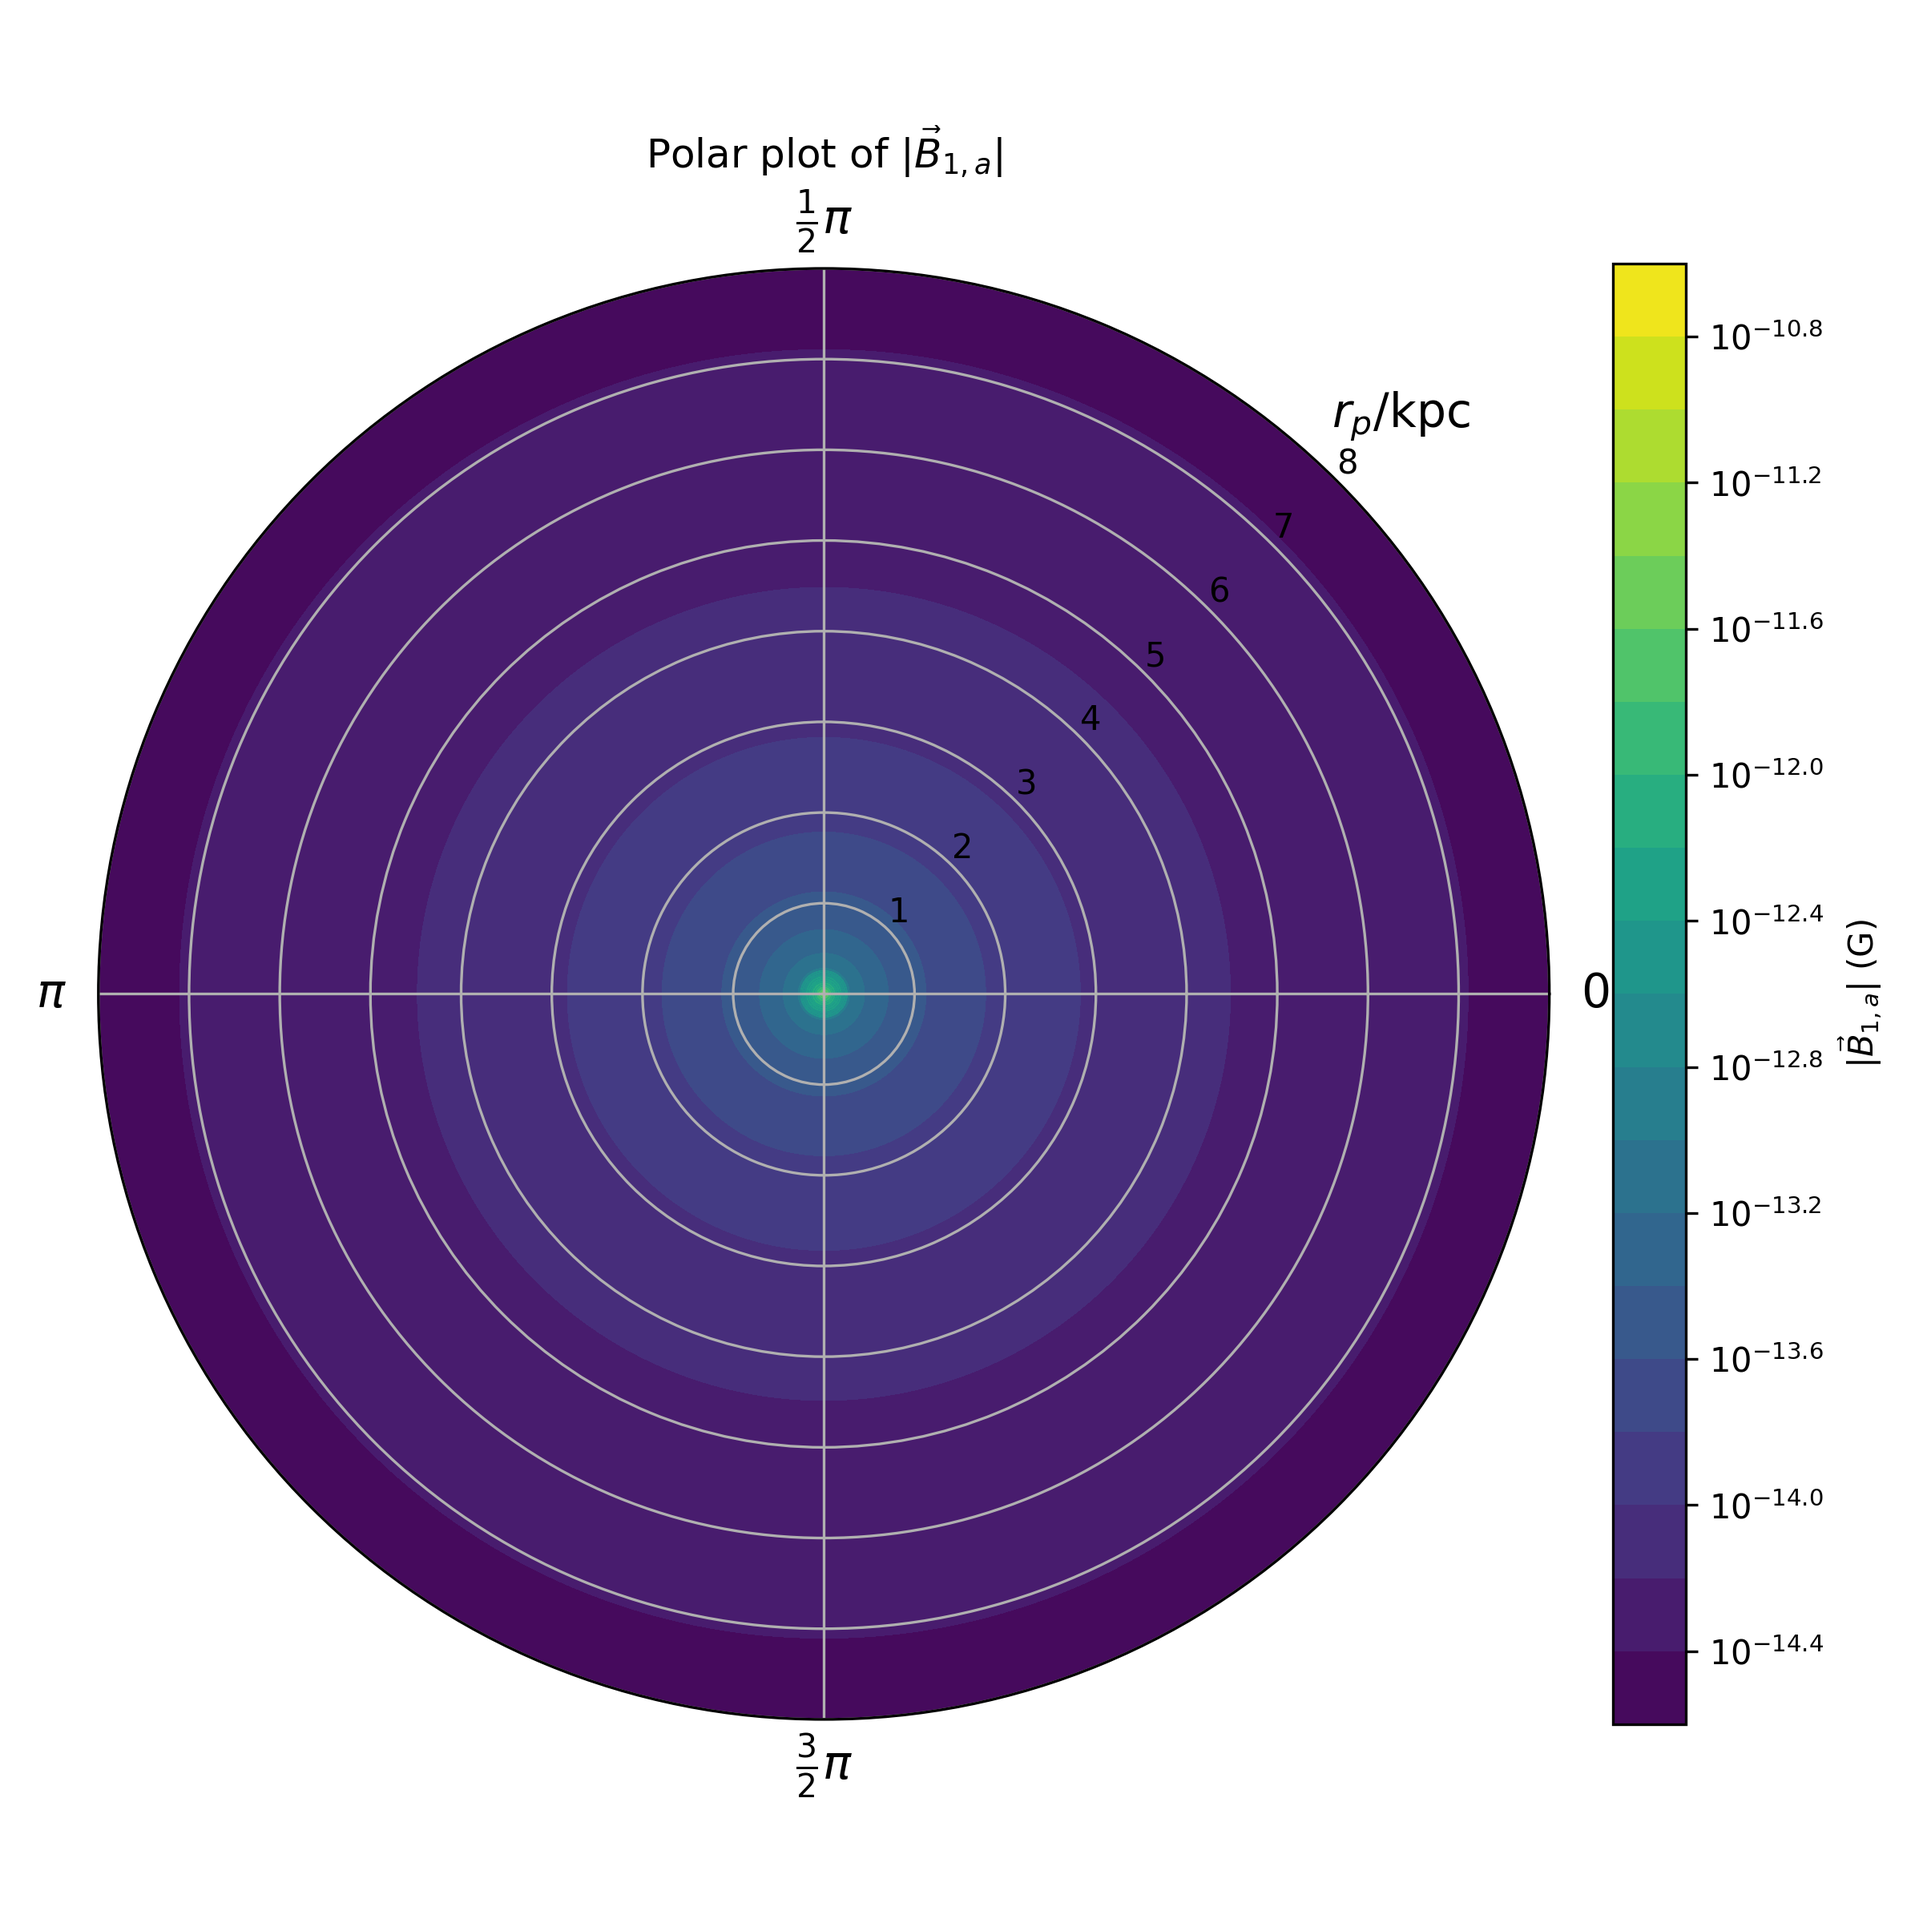
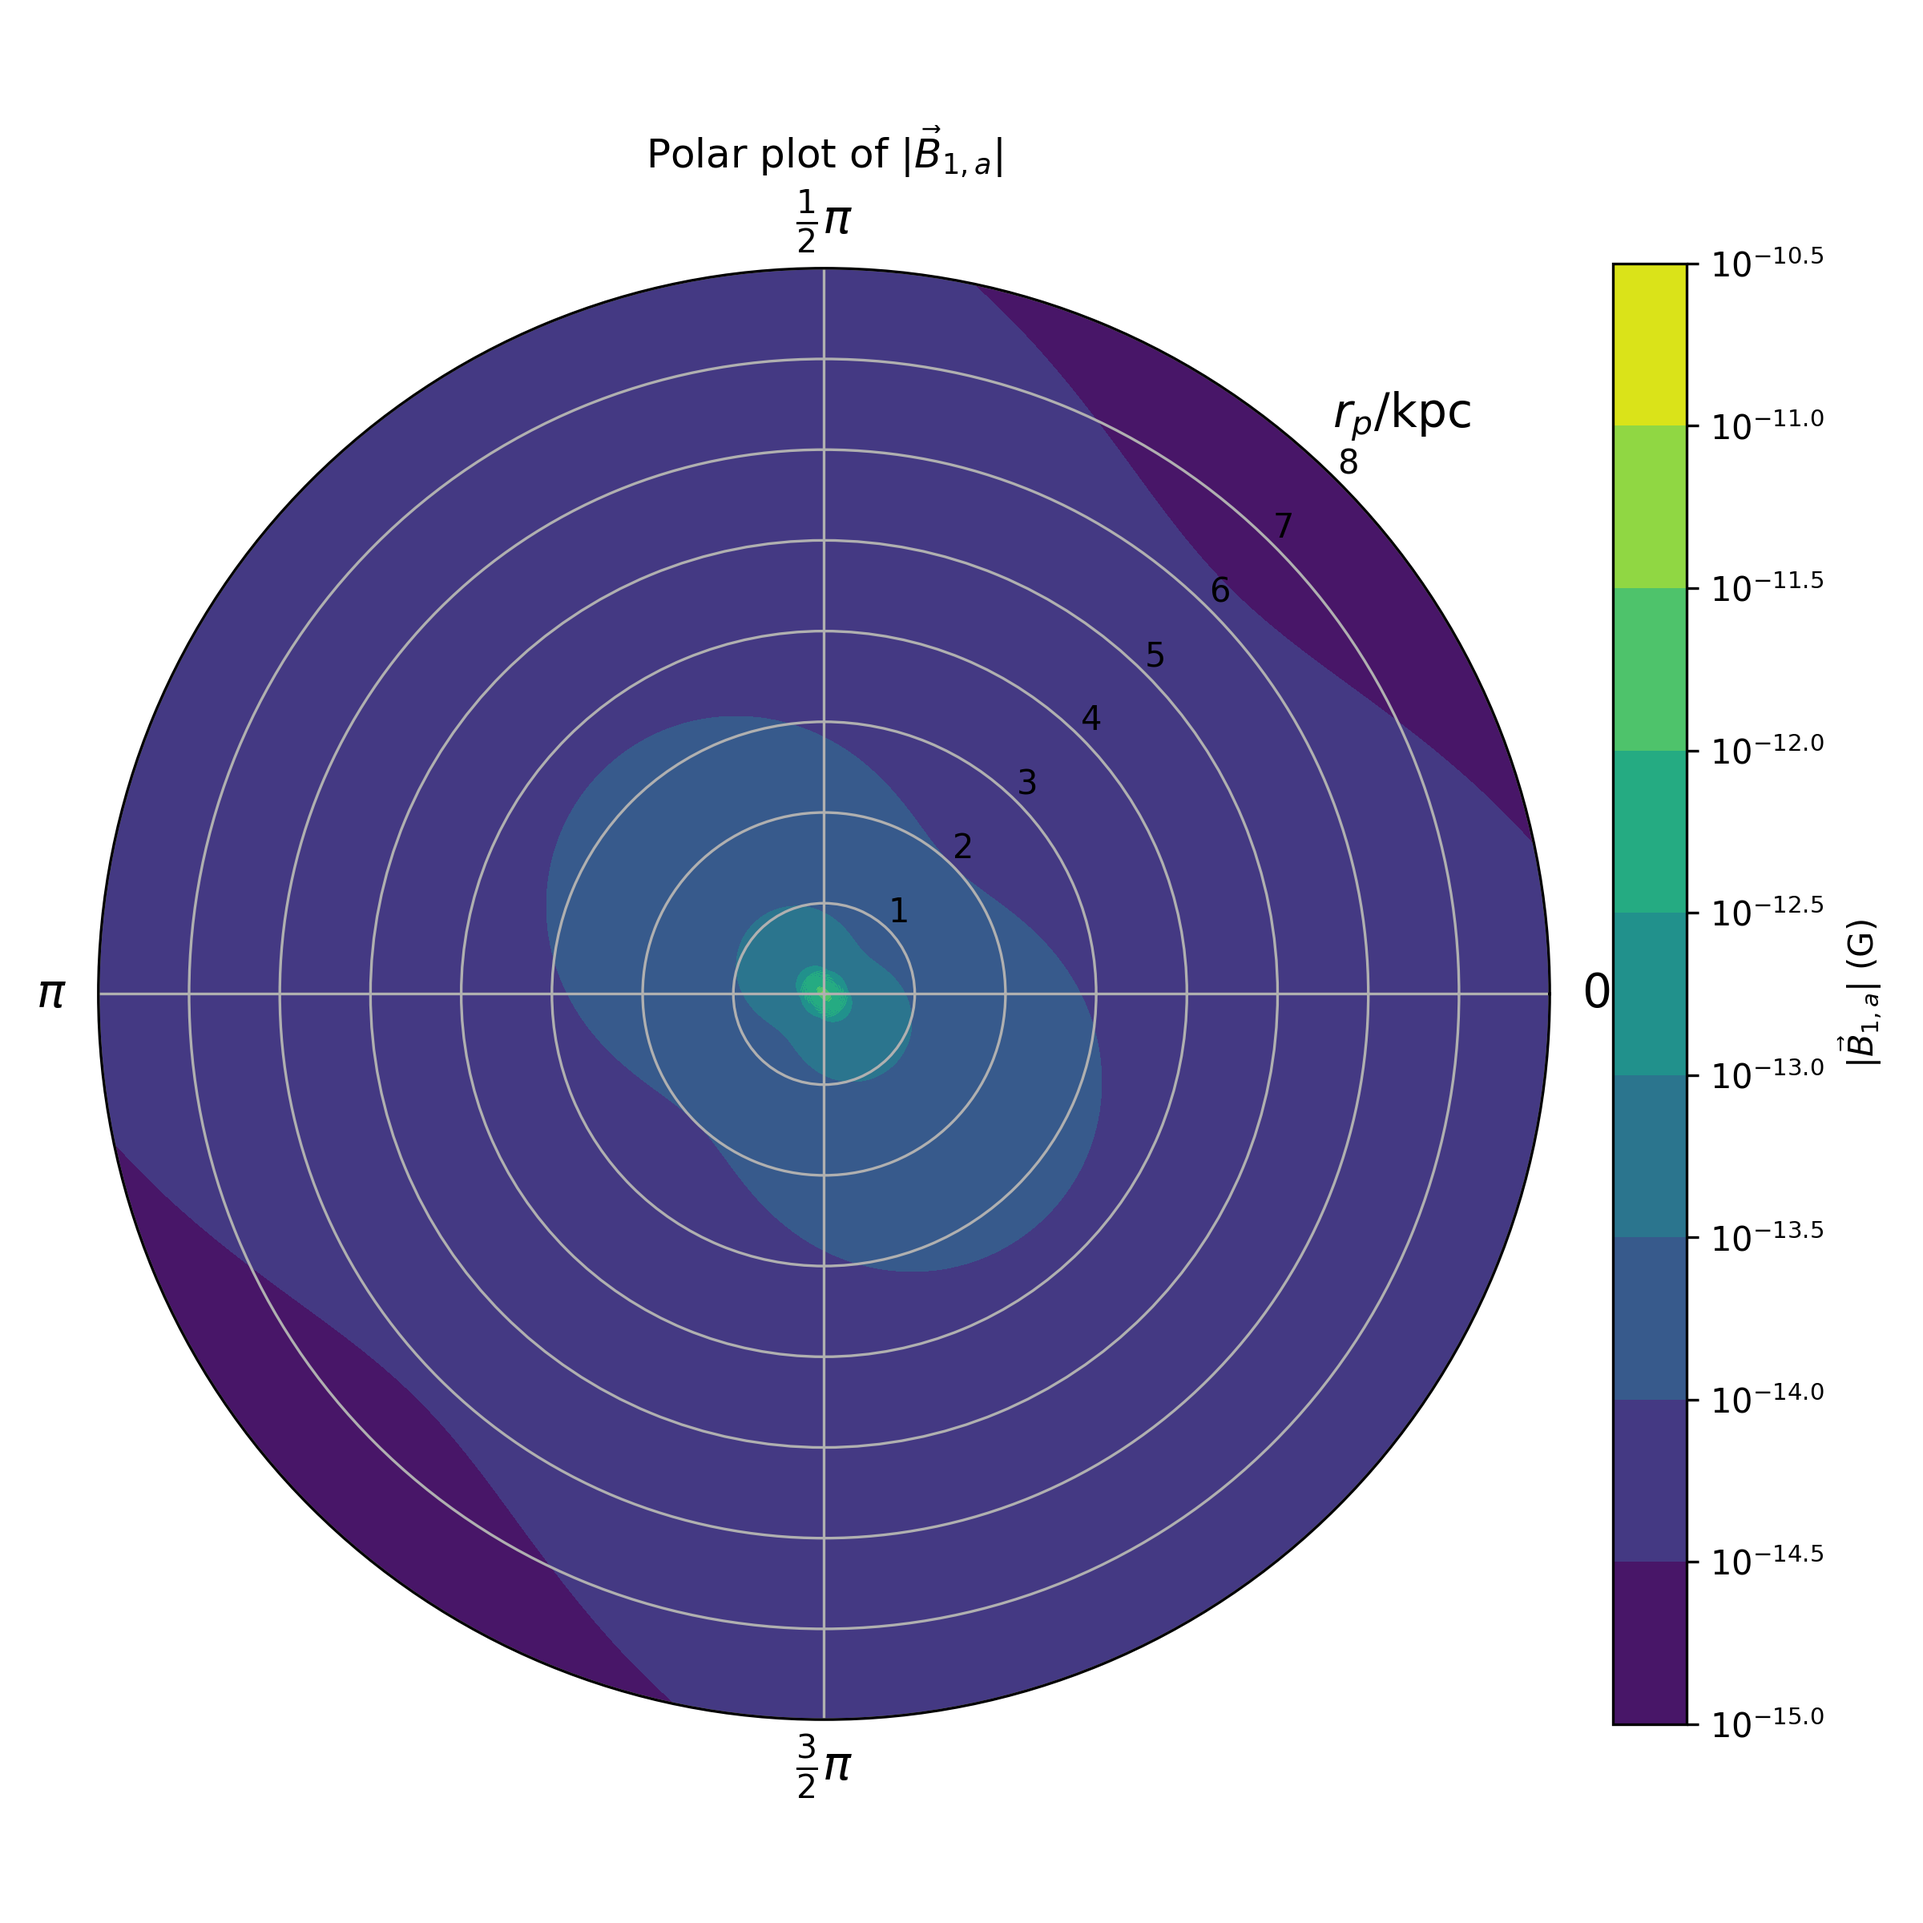
In progress

diff --git a/zeeman.py b/zeeman.py
@@ -548,7 +548,7 @@ def plot2D_data(xs, ys, zs, xlabel, ylabel, zlabel, title, figure_name, plotstyl
         if levels:
             contour = ax.contourf(xs, ys, zs, levels=levels, cmap="viridis")
         else:
-            contour = ax.contourf(xs, ys, cmap="viridis")
+            contour = ax.contourf(xs, ys, zs, cmap="viridis")
 
         # Display the colour bar
         cbar = fig.colorbar(contour, ax=ax, orientation="vertical", fraction=0.046, pad=0.04)
@@ -761,7 +761,7 @@ def main():
         epsilons = np.logspace(-5, -3, 2000)
         m_as, fs = np.meshgrid(m_as, fs)
         m_Ds, epsilons = np.meshgrid(m_Ds, epsilons)
-        B1params_a = calculate_B1("flat", "axion", 0, m_as, fs, epsilon, 8000 * pc_to_m * m_to_eVminus1, 0, 0, B_bar)[0]
+        B1params_a = calculate_B1("flat", "axion", 0, m_as, fs, epsilon, 8000 * pc_to_m * m_to_eVminus1, np.pi / 2, 0, B_bar)[0]
         B1params_d = calculate_B1("flat", "dark photon", 0, m_Ds, f, epsilons, 8000 * pc_to_m * m_to_eVminus1, np.pi / 2, 0, B_bar)[0]
 
         # Plot B1 versus the parameter space
@@ -774,13 +774,13 @@ def main():
         r_ps = np.linspace(0 * r_c, 8000 * pc_to_m * m_to_eVminus1, 2000)
         phi_ps = np.linspace(0, 2 * np.pi, 2000)
         r_ps, phi_ps = np.meshgrid(r_ps, phi_ps)
-        B1polar_a_mag, B1polar_a_x, B1polar_a_y, B1polar_a_z = calculate_B1("flat", "axion", 0, m_a, f, epsilon, r_ps, 0, phi_ps, B_bar)
-        B1polar_d_mag, B1polar_d_x, B1polar_d_y, B1polar_d_z = calculate_B1("flat", "dark photon", 0, m_D, f, epsilon, r_ps, np.pi / 2, phi_ps, B_bar)
+        B1polar_a_mag, B1polar_a_x, B1polar_a_y, B1polar_a_z = calculate_B1("flat", "axion", 0, 1e-22, f, epsilon, r_ps, np.pi / 2, phi_ps, B_bar)
+        B1polar_d_mag, B1polar_d_x, B1polar_d_y, B1polar_d_z = calculate_B1("flat", "dark photon", 0, 1e-22, f, epsilon, r_ps, np.pi / 2, phi_ps, B_bar)
         B1polar_d_mag = B1polar_d_mag
         B1polar_d_theta = - B1polar_d_z
     
         # Plot B1 versus distance of measurement point from Galactic Centre (r_p) and azimuthal displacement (phi_p)
-        plot2D_data(phi_ps, r_ps / (1000 * pc_to_m * m_to_eVminus1), np.log10(np.abs(B1polar_a_mag) / 1e-4), r"$\phi$ (rad)", r"$r_p/\mathrm{kpc}$", r"$|\vec{B}_{1, a}|$ (G)", r"Polar plot of $|\vec{B}_{1, a}|$", "B1polaraxion.png", plotstyle="contourf-polar", levels=20, zlog=True, logdp=1, save=True)
+        plot2D_data(phi_ps, r_ps / (1000 * pc_to_m * m_to_eVminus1), np.log10(np.abs(B1polar_a_mag) / 1e-4), r"$\phi$ (rad)", r"$r_p/\mathrm{kpc}$", r"$|\vec{B}_{1, a}|$ (G)", r"Polar plot of $|\vec{B}_{1, a}|$", "B1polaraxion.png", plotstyle="contourf-polar", zlog=True, logdp=1, save=True)
         plot2D_data(phi_ps, r_ps / (1000 * pc_to_m * m_to_eVminus1), np.log10(B1polar_d_mag / 1e-4), r"$\phi$ (rad)", r"$r_p/\mathrm{kpc}$", r"$|\vec{B}_{1, \vec{A}'}|$ (G)", r"Polar plot of $|\vec{B}_{1, \vec{A}'}|$", "B1polardarkphoton.png", plotstyle="contourf-polar", levels=20, zlog=True, logdp=1, save=True)
         plot2D_data(phi_ps, r_ps / (1000 * pc_to_m * m_to_eVminus1), np.log10(np.abs(B1polar_d_theta) / 1e-4), r"$\phi$ (rad)", r"$r_p/\mathrm{kpc}$", r"$|\vec{B}_{1\theta, \vec{A}'}|$ (G)", r"Polar plot of $|\vec{B}_{1\theta, \vec{A}'}|$", "B1polardarkphotontheta.png", plotstyle="contourf-polar", levels=20, zlog=True, logdp=1, save=True)
 
@@ -790,9 +790,9 @@ def main():
         r_ps = np.linspace(1 * r_c, 8000 * pc_to_m * m_to_eVminus1, 10000)
         r_ps_res = np.linspace(1 * r_c, 1.5 * r_c, 10000)
         f, m_a, m_D = gen_params("flat")
-        B1r_ps_a = np.array([calculate_B1("flat", "axion", 0, m_a, f, epsilon, r_p, 0, 0, B_bar)[0] for r_p in r_ps])
+        B1r_ps_a = np.array([calculate_B1("flat", "axion", 0, m_a, f, epsilon, r_p, np.pi / 2, 0, B_bar)[0] for r_p in r_ps])
         B1r_ps_d = np.array([calculate_B1("flat", "dark photon", 0, m_D, f, epsilon, r_p, np.pi / 2, 0, B_bar)[0] for r_p in r_ps])
-        B1r_ps_a_res = np.array([calculate_B1("flat", "axion", 0, m_a, f, epsilon, r_p, 0, 0, B_bar)[0] for r_p in r_ps_res])
+        B1r_ps_a_res = np.array([calculate_B1("flat", "axion", 0, m_a, f, epsilon, r_p, np.pi / 2, 0, B_bar)[0] for r_p in r_ps_res])
         B1r_ps_d_res = np.array([calculate_B1("flat", "dark photon", 0, m_D, f, epsilon, r_p, np.pi / 2, 0, B_bar)[0] for r_p in r_ps_res])
 
         # Plot B1 versus r_p for axion
@@ -815,7 +815,7 @@ def main():
     ts = np.linspace(0, 4 * period, 1000)
 
     # Calculate B1 values
-    B1s = np.array([calculate_B1(potential_type, particle_type, t * s_to_eVminus1, m, f, epsilon, r_p, 0, 0, B_bar)[0] for t in ts])
+    B1s = np.array([calculate_B1(potential_type, particle_type, t * s_to_eVminus1, m, f, epsilon, r_p, np.pi / 2, 0, B_bar)[0] for t in ts])
 
     # Calculate the shift in energy for each B1
     delta_Es = np.array([calculate_delta_E(B1) for B1 in B1s])
